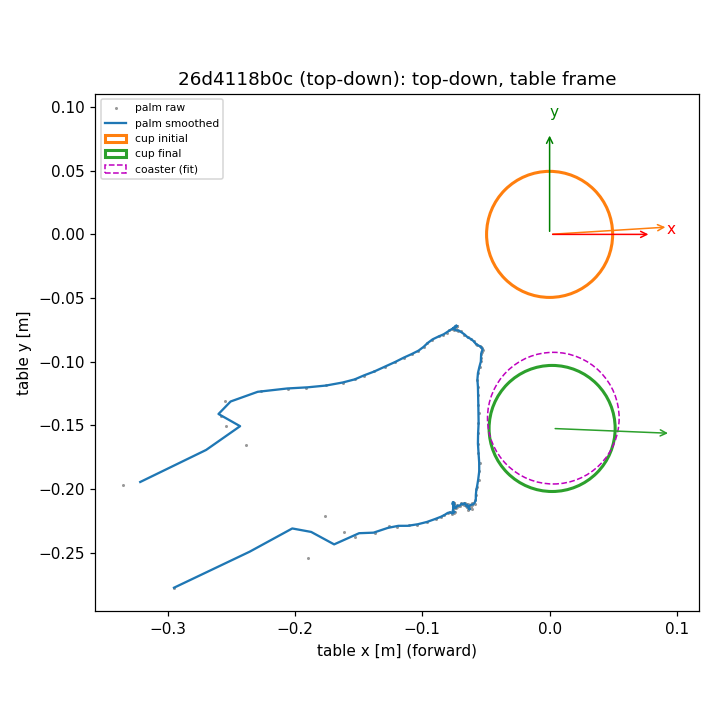
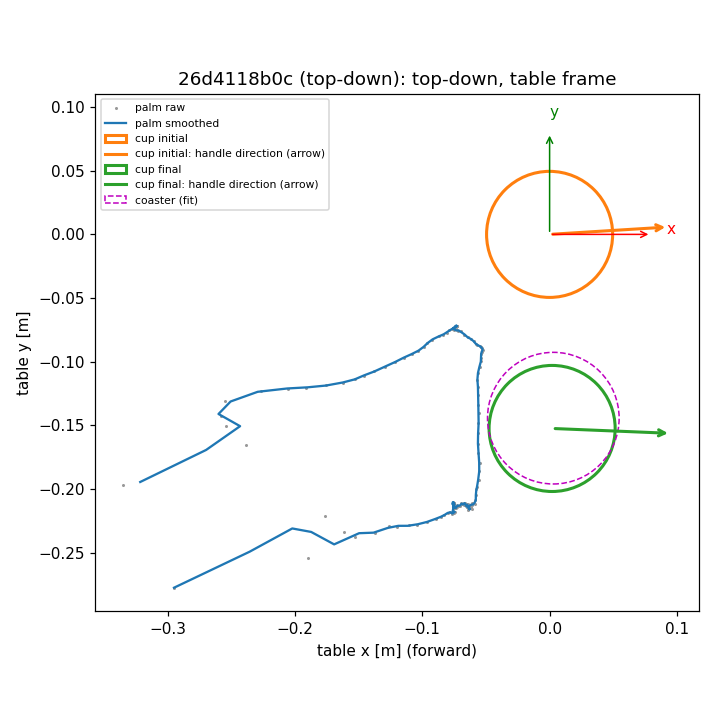
M2: verification (no mismatches), plot/doc fixes, CLAUDE.md schema v2 from build_demo, log of S4-S11 results

diff --git a/perception/build_demo.py b/perception/build_demo.py
@@ -46,8 +46,9 @@ Hand (WiLoR MANO right hand, depth-corrected with the LiDAR in S5)
   mano_betas              (T,10)     MANO shape coefficients
                                      (mano_*: WiLoR's own values -- S5 only translates the hand -- on every hand_valid
                                      frame, also where the hand is not metric_valid)
-  depth_shift_m           (T,)       S5 depth shift D = median(lidar - mesh) (+ = WiLoR's hand was too close)
-  lidar_residual_m        (T,)       median |lidar - (mesh + D)| over the S5 pass-2 pixels
+  depth_shift_m           (T,)       S5 depth shift D = median(lidar - mesh) (+ = WiLoR's hand was too close); finite
+                                     wherever S5 could compute D, i.e. also on hand_valid frames that are not metric_valid
+  lidar_residual_m        (T,)       median |lidar - (mesh + D)| over the S5 pass-2 pixels (finite where D is)
   reproj_err_px           (T,)       plumbing check: corrected kp3d projected with K vs WiLoR's own 2D keypoints
                                      (tests our transforms, NOT WiLoR's accuracy)
 Objects (table frame)
@@ -67,7 +68,8 @@ Events (S8, from the raw metric palm)
                                      if g's valid run is shorter than the smoothing window. NaN if g is undefined, or
                                      if S7 found no table x and the handle yaw is invalid
 Dimensions
-  mug_dims, coaster_dims  () str     JSON of the config/objects.yaml blocks (value + source flag per entry)
+  mug_dims, coaster_dims  () str     JSON of the config/objects.yaml blocks, copied as they are (value + source flag per
+                                     entry; the mug's capacity_ml is a bare number in the config)
 """
 
 from __future__ import annotations

diff --git a/perception/events.py b/perception/events.py
@@ -170,7 +170,7 @@ def body_iou(clip: str, n: int) -> np.ndarray:
 
 def plot(path, clip, t, valid, d_axis, d_final, z, iou, ev, r, z_grasp):
     s = t - t[0]
-    fig = Figure(figsize=(11, 8.5))
+    fig = Figure(figsize=(11, 8.5), layout="constrained")     # constrained: no clipped axis labels
     ax = fig.subplots(4, 1, sharex=True, height_ratios=[3, 3, 2, 1])
     ax[0].plot(s, d_axis, color=BLUE, lw=1.5, label="to initial cup axis")
     ax[0].plot(s, d_final, color=ORANGE, lw=1.5, label="to final cup axis")
@@ -199,8 +199,7 @@ def plot(path, clip, t, valid, d_axis, d_final, z, iou, ev, r, z_grasp):
     for a in ax[:3]:
         a.legend(loc="upper right", fontsize=8, frameon=False)
         a.grid(alpha=0.25, lw=0.5)
-    fig.suptitle(f"{clip}: events from the raw metric palm (table frame)", y=0.995)
-    fig.tight_layout()
+    fig.suptitle(f"{clip}: events from the raw metric palm (table frame)")
     fig.savefig(path, dpi=120)
 
 

diff --git a/perception/report.py b/perception/report.py
@@ -439,8 +439,11 @@ def plots(clip, demo, idx, c, out):
         if demo["cup_yaw_valid"][valid]:
             yaw = float(demo[yaw_key])
             tip = xy + handle * np.array([np.cos(yaw), np.sin(yaw)])
-            ax.annotate("", tip, xy, arrowprops={"arrowstyle": "->", "color": col})
+            ax.annotate("", tip, xy, arrowprops={"arrowstyle": "->", "color": col, "lw": 2})
+            ax.plot([], [], color=col, lw=2, label=f"{name}: handle direction (arrow)")
             ends.append(tip)
+        else:
+            ax.plot([], [], " ", label=f"{name}: handle yaw invalid, not drawn")
     ax.add_patch(plt.Circle(demo["coaster_pos_table"][:2], float(demo["coaster_diameter_fit_m"]) / 2, fill=False,
                             color="m", ls="--", label="coaster (fit)"))
     for xy, name, col in (((0.08, 0), "x", "r"), ((0, 0.08), "y", "g")):    # table axes at the origin

diff --git a/CLAUDE.md b/CLAUDE.md
@@ -149,28 +149,75 @@ Organizers value **repeatable end-to-end task completion over bold but flaky att
   - x = **my forward** direction: in-plane perpendicular to the desk's long edges (fitted to the desk boundary in depth), signed so the
     first metric palm position has x < 0 (I sit at the near long edge). y = z × x (so y points to my left).
   - `x_axis_method` records how x was found (long-edge rule, largest-extent fallback, reference-direction fallback, or `failed`).
-- **Demo `.npz` schema v2** (`data/demos/<clip>.npz`, written by `perception.build_demo`; `schema_version = 2`). Table frame unless the
-  name says `cam` / `world`. T = number of odometry rows; index i = odometry row = depth/confidence file index (image = decoded frame i−1;
-  i = 0 has no image). Invalid entries are NaN (floats) / False (bools).
-  - Metadata: `schema_version`, `clip_id`, `view_label`, `t` (T,) [s, odometry clock], `K` (T,3,3) RGB-pixel intrinsics (original
-    sideways orientation, 1920×1440), `T_world_cam` (T,4,4) camera-to-world (OpenCV camera axes, ARKit world y-up), `T_table_world` (4,4),
-    `table_plane_world` (4,) [n, d] with n·p + d = 0, n·(+y) > 0, `table_rms_m`, `x_axis_method`, `x_axis_vs_reference_deg`.
-  - Hand: `hand_valid` (T,) (right hand detected + reconstructed), `metric_valid` (T,) (LiDAR depth correction succeeded),
-    `hand_kp_cam` (T,21,3) [m, camera frame, after the LiDAR shift], `hand_kp_table` (T,21,3), `palm_pos_table_raw` / `palm_pos_table`
-    (T,3), `palm_rot_table_raw` / `palm_rot_table` (T,3,3) (columns = palm axes x_f, y, n; raw = per frame, plain = gap-filled +
-    Savitzky–Golay smoothed), `palm_normal_flipped` (bool), `mano_global_orient` (T,3,3) (camera frame), `mano_hand_pose` (T,45)
-    axis-angle, `mano_betas` (T,10), `depth_shift_m` (T,), `lidar_residual_m` (T,), `reproj_err_px` (T,) (plumbing check).
-  - Keypoint order (21): to be filled in from WiLoR's MANO wrapper once verified (expected OpenPose: wrist 0, thumb 1–4, index 5–8,
-    middle 9–12, ring 13–16, pinky 17–20).
-  - Palm: `palm_pos = 0.5·(kp[0] + kp[9])`; x_f = kp[9] − kp[0] normalised; n = (kp[5] − kp[0]) × (kp[17] − kp[0]) normalised (flipped
-    for all frames if needed so that n points toward the cup axis at the grasp frame), orthonormalised; y = n × x_f.
-  - Objects: `cup_init_pos_table`, `cup_final_pos_table` (3,) mug base centre, `cup_init_yaw`, `cup_final_yaw` [rad, handle direction
-    from table x], `cup_yaw_valid`, `cup_init_iou`, `cup_final_iou`, `cup_free_fit_r_h` (2,) [m], `coaster_pos_table` (3,),
-    `coaster_diameter_fit_m`.
-  - Events: `phase` (T,) int (0 approach, 1 grasp [t_contact, t_lift), 2 transport [t_lift, t_place), 3 place [t_place, t_release),
-    4 release/retreat, −1 undefined), `t_contact`, `t_lift`, `t_place`, `t_release` [s, NaN if not detected], `grasp_index` (int, −1 if
-    none), `T_palm_in_cup_at_grasp` (4,4) (cup frame: origin = initial base centre, z up, x toward the handle).
-  - Dimensions: `mug_dims`, `coaster_dims` (copied from `config/objects.yaml`, with their source flags).
+- **Demo `.npz` schema v2** (`data/demos/<clip>.npz`, written by `perception.build_demo` = S10; `schema_version = 2`; the field
+  list below is copied from that module's docstring, which is the master copy). Always written, also for clips that fail
+  their gates: what could not be produced is NaN (False for flags, -1 for indices / phase).
+
+```
+Frames: "table" = the S7 table frame (z = table normal, up; origin = initial mug base centre on the table; x = my
+forward, away from the near desk edge; y = z x x). "cam" = ORIGINAL (sideways) camera frame, OpenCV axes (x right, y down,
+z forward). "world" = ARKit world, y up. Units: metres, radians, seconds. T = number of canonical frames i (odometry
+rows); i = 0 has no image, so every per-image field is NaN / False there.
+
+Metadata
+  schema_version          () int     2
+  clip_id, view_label     () str     view_label: "top-down" | "90deg" | "45deg"
+  t                       (T,)       odometry timestamps [s], ARKit clock (absolute; t - t[0] = clip time)
+  K                       (T,3,3)    RGB intrinsics [px] of the ORIGINAL 1920x1440 image
+  T_world_cam             (T,4,4)    camera-to-world
+  T_table_world           (4,4)      p_table = T_table_world @ p_world; all NaN if S7 found no table x, and then so is
+                                     every table-frame field below
+  table_plane_world       (4,)       [nx, ny, nz, d] with n.p + d = 0 (world), n.(0,1,0) > 0
+  table_rms_m             ()         table-plane inlier RMS (S4)
+  x_axis_method           () str     how S7 found table x: long_edge_extent | largest_total_extent | reference_fallback |
+                                     failed ("missing" if S7 has no output)
+  x_axis_vs_reference_deg ()         signed angle from the S7 reference direction to table x, about z [deg]
+Hand (WiLoR MANO right hand, depth-corrected with the LiDAR in S5)
+  hand_valid              (T,) bool  a right hand was detected and reconstructed (S2)
+  metric_valid            (T,) bool  hand_valid and >= 30 LiDAR pixels in the S5 correction; use only these frames
+  hand_kp_cam             (T,21,3)   21 keypoints after the S5 depth correction, cam frame; NaN where not metric_valid
+                                     (S5 corrects only those frames)
+  hand_kp_table           (T,21,3)   the same keypoints in the table frame (NaN where not metric_valid)
+                                     order (OpenPose, verified in WiLoR's mano_wrapper.py): wrist 0, thumb 1-4,
+                                     index 5-8, middle 9-12, ring 13-16, pinky 17-20 (4, 8, 12, 16, 20 = fingertips)
+  palm_pos_table_raw      (T,3)      0.5 (kp0 + kp9), metric_valid frames (S9)
+  palm_pos_table          (T,3)      gap-filled (gaps <= 0.3 s) and Savitzky-Golay smoothed (S9); finite on the
+                                     metric_valid frames AND the filled gap frames
+  palm_rot_table_raw      (T,3,3)    columns [x_f, y, n]: x_f = wrist -> middle-finger base, n = palm normal (points
+                                     toward the cup at grasp), y = n x x_f
+  palm_rot_table          (T,3,3)    gap-filled (SLERP), smoothed, re-orthonormalised (S9)
+  palm_normal_flipped     () bool    S9 flipped n in every frame. Also False when the flip was NOT decided (grasp frame
+                                     undefined) or S9 has no output: palm/palm.npz flip_decided tells them apart
+  mano_global_orient      (T,3,3)    MANO root rotation in the table frame (R_table_cam @ WiLoR's cam-frame global_orient)
+  mano_hand_pose          (T,45)     15 MANO joint rotations, axis-angle [rad], each relative to its parent joint
+  mano_betas              (T,10)     MANO shape coefficients
+                                     (mano_*: WiLoR's own values -- S5 only translates the hand -- on every hand_valid
+                                     frame, also where the hand is not metric_valid)
+  depth_shift_m           (T,)       S5 depth shift D = median(lidar - mesh) (+ = WiLoR's hand was too close); finite
+                                     wherever S5 could compute D, i.e. also on hand_valid frames that are not metric_valid
+  lidar_residual_m        (T,)       median |lidar - (mesh + D)| over the S5 pass-2 pixels (finite where D is)
+  reproj_err_px           (T,)       plumbing check: corrected kp3d projected with K vs WiLoR's own 2D keypoints
+                                     (tests our transforms, NOT WiLoR's accuracy)
+Objects (table frame)
+  cup_init_pos_table, cup_final_pos_table (3,)  mug base centre on the table plane, initial / final window (S6)
+  cup_init_yaw, cup_final_yaw  ()    handle direction: angle of (handle point P - cup axis) from table x, about z [rad]
+  cup_yaw_valid           (2,) bool  [init, final]: handle mask >= 0.2 % of the body mask (else do not trust the yaw)
+  cup_init_iou, cup_final_iou ()     silhouette IoU of the 2-DOF cylinder fit
+  cup_free_fit_r_h        (2,)       [r, h] of the 4-DOF validation fit, initial window; h NaN = unobservable
+  coaster_pos_table       (3,)       coaster centre on the table plane (initial window)
+  coaster_diameter_fit_m  ()         diameter of the RANSAC circle fit
+Events (S8, from the raw metric palm)
+  phase                   (T,) int8  0 approach, 1 grasp, 2 transport, 3 place, 4 release/retreat, -1 undefined
+  t_contact, t_lift, t_place, t_release ()   [s], same clock as t (NaN = not detected)
+  grasp_index             () int     grasp frame g (index into t), -1 = undefined
+  T_palm_in_cup_at_grasp  (4,4)      smoothed palm pose at g in the cup frame (origin = initial base centre, z up,
+                                     x toward the handle at the initial yaw; table x if that yaw is invalid). Raw pose
+                                     if g's valid run is shorter than the smoothing window. NaN if g is undefined, or
+                                     if S7 found no table x and the handle yaw is invalid
+Dimensions
+  mug_dims, coaster_dims  () str     JSON of the config/objects.yaml blocks, copied as they are (value + source flag per
+                                     entry; the mug's capacity_ml is a bare number in the config)
+```
 
 ---
 

diff --git a/docs/log.md b/docs/log.md
@@ -557,3 +557,75 @@ seed/index, cup/coaster xy, handle yaw, mass, outcome, phase, reason, category, 
 both re-runs identical to the batch (nothing succeeded, so two failures of different categories); `cylinder_repro/pick_results.json`.
 Runtime: three parallel CPU processes; summed per-trial wall time 156 s (50 trials), 73 s and 70 s (20 each); videos via Mesa EGL on the
 Intel iGPU (`__EGL_VENDOR_LIBRARY_FILENAMES=/usr/share/glvnd/egl_vendor.d/50_mesa.json MUJOCO_GL=egl`) while Track A held the NVIDIA GPU.
+
+### Track A — S4–S11, gates, cross-view (all numbers: `results/m2_perception/summary.md`, `<clip>/gates.json`, `<clip>/stages/*.json`)
+**How it was built.** An interface contract (file formats between stages) plus a list of implementation decisions fixed BEFORE any result
+(RANSAC seeds/iterations, dilation kernels, majority = ≥ 6 of 11 frames, grid + Nelder–Mead, event definitions, gap-fill rule, G1/G4
+definitions, …). Five module groups were implemented in parallel by a workflow (implement → 2 adversarial reviewers: spec compliance,
+numerics/frames → fixer), each with a synthetic self-test against known ground truth (scratch, not in the repo). `perception/run_clip.py`
+runs S1–S11 as one process per stage. Adaptation: S7 lives in its own module `perception/table_frame.py` (one module = one stage), and its
+JSON is `data/work/<clip>/table_frame/table_frame.json` (the spec wrote `data/work/<clip>/table_frame.json`).
+
+**Corrections I made after review, before the final runs (none chosen to pass a gate):**
+- S6 silhouette: the contract named `cv2.fillConvexPoly`, which fills every pixel the hull edge touches and rounds the vertices (~0.65 px
+  too large per side). Replaced by a pixel-CENTRE-inside test on the unrounded hull — the same rule that defines SAM 2's masks (logits at
+  pixel centres). Check: a top-down disc covers 0.9987 × πR² px = the 72-gon/circle area ratio. This change moves G6's free-fit diameter
+  UP (on the 90° clip the old rasteriser narrowly passed G6 in a reviewer probe; with the fix every clip fails G6).
+- S9 Savitzky–Golay window: my contract text said 13 / 7 frames, an arithmetic slip; the spec's "odd window nearest 0.2 s" on the real
+  clock (median dt 16.67 ms / 33.33 ms) is 11 frames (0.183 s) / 5 frames (0.167 s), which the code computes.
+- `mano_global_orient` stored in the table frame (the spec's rule: table frame unless the name says cam).
+- `report.py` copies every stage's `done.json` and `<stage>.json` into `results/m2_perception/<clip>/stages/` so all numbers are under results/.
+- Cosmetic: constrained layout for events.png (clipped label), handle-direction legend / "invalid" note in topdown.png; two docstring fixes
+  from the schema audit (depth_shift_m / lidar_residual_m are finite wherever S5 computed D; capacity_ml has no source flag).
+
+**Verification.** A second workflow re-derived every gate value, pass/fail and cross-view value per clip with independent code (not
+importing report.py) and checked the overlays by eye; a schema auditor checked every demo field against S10 and cross-stage consistency
+(76/76 checks on three clips, 72/72 on the top-down). **No numerical or pass/fail mismatch on any clip.**
+
+**Gates** (✔ pass, ✘ fail):
+
+| gate | 26d4118b0c top-down | 4e103843db 90° | 49aff04f7a 45° | e8825dea53 45° |
+|---|---|---|---|---|
+| G1 hand coverage | ✘ events undefined | ✔ 100 %, no gap | ✔ 99.2 %, longest gap 1 frame | ✔ 99.7 %, no gap |
+| G2 LiDAR residual | ✔ 0.53 cm | ✔ 0.55 cm | ✔ 0.38 cm | ✔ 0.82 cm |
+| G3 plumbing reprojection | ✘ 41.8 px | ✘ 61.2 px | ✘ 81.0 px | ✘ 30.9 px |
+| G4 static jitter | ✔ raw std 0.06 cm (1 hold) | ✔ 0.05 cm (1 hold) | N/A no hold | N/A no hold |
+| G5 grasp geometry | ✘ g undefined | ✔ d 99.4 mm (≤ 99.5), z 47.5 mm | ✔ d 96.1 mm, z 61.8 mm | ✔ d 96.6 mm, z 62.7 mm |
+| G6 mug fit | ✘ IoU 0.918, Ø 105.1 mm, h N/A | ✘ IoU 0.943, Ø 105.7, h 86.9 | ✘ IoU 0.947, Ø 106.1, h 85.8 | ✘ IoU 0.938, Ø 105.8, h 88.1 |
+| G7 placement | ✔ 0.81 cm | ✔ 2.15 cm | ✔ 1.04 cm | ✔ 0.54 cm |
+| G8 table frame | ✔ RMS 5.45 mm, drift ok, x 0.8° | ✘ normal drift 2.43° (x 1.7°) | ✘ x 23.9° off 45° | ✔ x 11.0° off 45° (but see below) |
+
+**What failed and why (plainly):**
+- **G3 fails on every clip (31–81 px).** WiLoR's 3D hand comes from a near-orthographic crop camera (f = 5000 px for a 256 px crop); its 2D
+  keypoints agree with a weak-perspective projection of its 3D keypoints to about a pixel (reviewer + verifier probes in the scratchpad, not a
+  saved result). The spec's check projects with the real perspective camera, where a hand ~30–40 cm away and a few cm deep lands tens of
+  pixels off. Our transforms are consistent; the gate as defined cannot reach 8 px for close hands. Needs the user's decision.
+- **G6 fails on every clip the same way:** free-fit diameter 105.1–106.1 mm vs the 99 mm label (+6–7 mm), height 85.8–88.1 mm vs 91 where
+  observable. The SAM 2 body masks are systematically larger than the label-size silhouette (verifier: on the top-down final window the mask
+  extends up to 16 half-res px past it on one side). Cause not identified (SAM 2's 4× lower-resolution logits, the mug's real shape vs its
+  label, or both). The 2-DOF IoU is 0.92–0.95 everywhere.
+- **Top-down 26d4118b0c has no events:** the palm point's closest approach to the cup axis is 0.102 m vs the contact threshold r + 5 cm =
+  0.0995 m (`stages/events.json`), so contact never fires and lift / grasp / place / release are undefined → G1 and G5 fail, 7 cross-view
+  columns are n/a. On the other clips the palm-to-axis distance at g is 96–99 mm, i.e. this grasp style sits at the threshold.
+- **G8 drift on 4e103843db:** plane normals of the initial and end windows differ by 2.43° (> 2°) while the offset at the mug is −0.4 mm.
+  The verifiers traced it to ARKit attitude drift on a static camera (the desk slot stays on the same pixels; scratch probes, not saved).
+- **S7 picked junk "long edges" on both 45° clips.** The rule "any line with inlier extent > 0.42 m is a long edge" is fooled by lines whose
+  inliers are two distant fragments (extent = max − min includes gaps): 49aff04f7a L2 = 0.584 m with a 0.444 m gap (cup holder + desk
+  corner) beat the real edge L0 (0.50 m, gap 0.02 m) under the pre-registered tie-break (group of the longest qualifying line) → x 23.9° off;
+  e8825dea53's only qualifying line L2 = 0.54 m with a 0.26 m gap runs through the mug's outline and the cup holder → its G8 pass (11°) is
+  coincidental. Consequence: on these two clips the table-frame x/y quantities (coaster dx/dy, yaws, palm path in x/y) are rotated; distances,
+  heights and events are not affected. The S7 hole filling did not remove the mug outline because the mug region connects to the off-desk
+  region through the desk's slot / image edge. Not changed: needs the user's decision (gap-aware extent, exclude pixels near object masks, …).
+- **G4 N/A** on both 45° clips (longest slow span shorter than 0.3 s).
+- **e8825dea53: no handle** at i = 1 (hidden) → handle yaw invalid, approach yaw n/a, its cup frame falls back to (junk) table x. Its
+  lift confirmation is uninformative (the hand occludes the mug before contact, IoU < 0.7 already).
+- **Palm below the table at the first / last frames of the hand track** (e.g. −8.4 cm at i = 90 on 4e103843db, with large LiDAR depth shifts):
+  edge-of-track artefacts, outside every gate window, no event moved (palm_height.png, depth_shift.png).
+- Spec items that turned out vacuous / borderline: the S9 "never fill a gap that contains t_contact, g or t_lift" can never fire (those are
+  metric_valid frames by definition); G8's RMS < 6 mm is nearly automatic (RMS over 1 cm-band inliers is ≤ 5.77 mm for uniform residuals);
+  G1's 0.1 s run limit means ≤ 5 frames at 60 Hz (6 frames = 0.10004 s); G5 on the 90° clip passes by 0.1 mm.
+- Palm normal: never flipped where decided (3 clips); undecided on the top-down clip (no g).
+
+**Runtime / memory per stage** (`<clip>/resources.json`; top-down / 90° / 45° / 45°): frames 6–12 s, 0.1 GB; hand (WiLoR, GPU) 63–70 s,
+6.06 GB RSS, 2.82 GB VRAM; masks (SAM 2, GPU) 70–125 s, 5.4–9.4 GB RSS, 0.80 GB VRAM; table 8–22 s, ≤ 0.5 GB; hand_metric 1–2 s;
+objects 20–27 s; table_frame, events, palm, demo < 1 s each; report 3–7 s. Peak RSS anywhere 9.35 GB (< 16 GB). Whole S4–S11 ≈ 40–60 s/clip.
